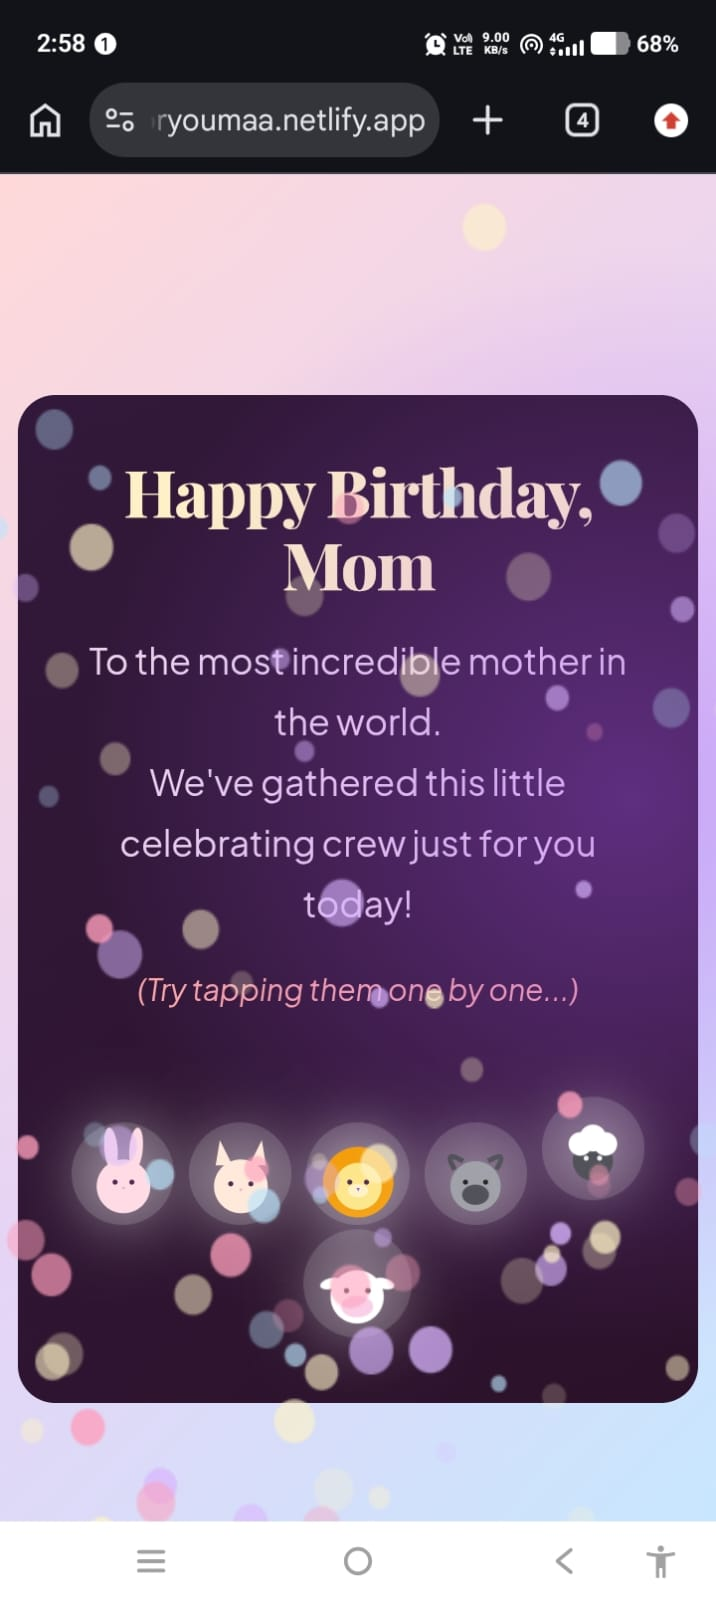
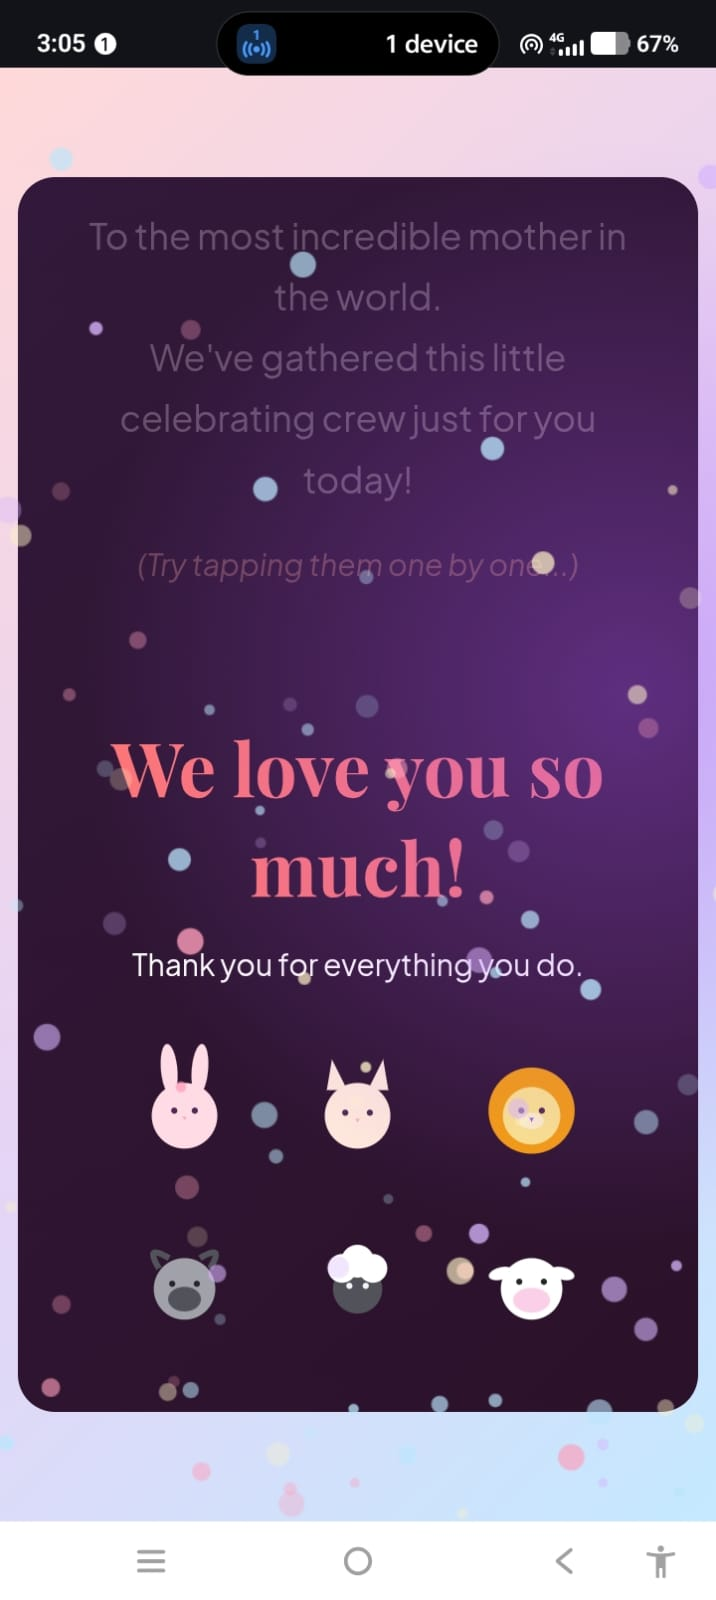
size

diff --git a/style.css b/style.css
@@ -79,22 +79,24 @@ body {
 #surprise-message { opacity: 1; transition: opacity 1s ease; color: #fff; margin-top: 20px; }
 
 
-.animal { 
-  width: 120px;   /* Increased from original size */
-  height: 120px; 
-  cursor: pointer; 
-  transition: transform 0.3s ease; 
-  margin: 15px;    /* Adds space between the big animals */
+/* Update the .animal class */
+.animal {
+  width: 150px;       /* Increased for better visibility */
+  height: 150px;
+  cursor: pointer;
+  transition: transform 0.3s cubic-bezier(0.175, 0.885, 0.32, 1.275);
+  margin: 20px;
+  flex-shrink: 0;     /* Prevents them from shrinking */
 }
 
-/* Ensure the container allows them to wrap properly */
+/* Ensure the parade container spreads them nicely */
 .animal-parade {
   display: flex;
   flex-wrap: wrap;
   justify-content: center;
   align-items: center;
-  gap: 20px;
-  margin-top: 20px;
+  gap: 30px;          /* More breathing room */
+  padding: 20px;
 }
 
 .animal.visible {